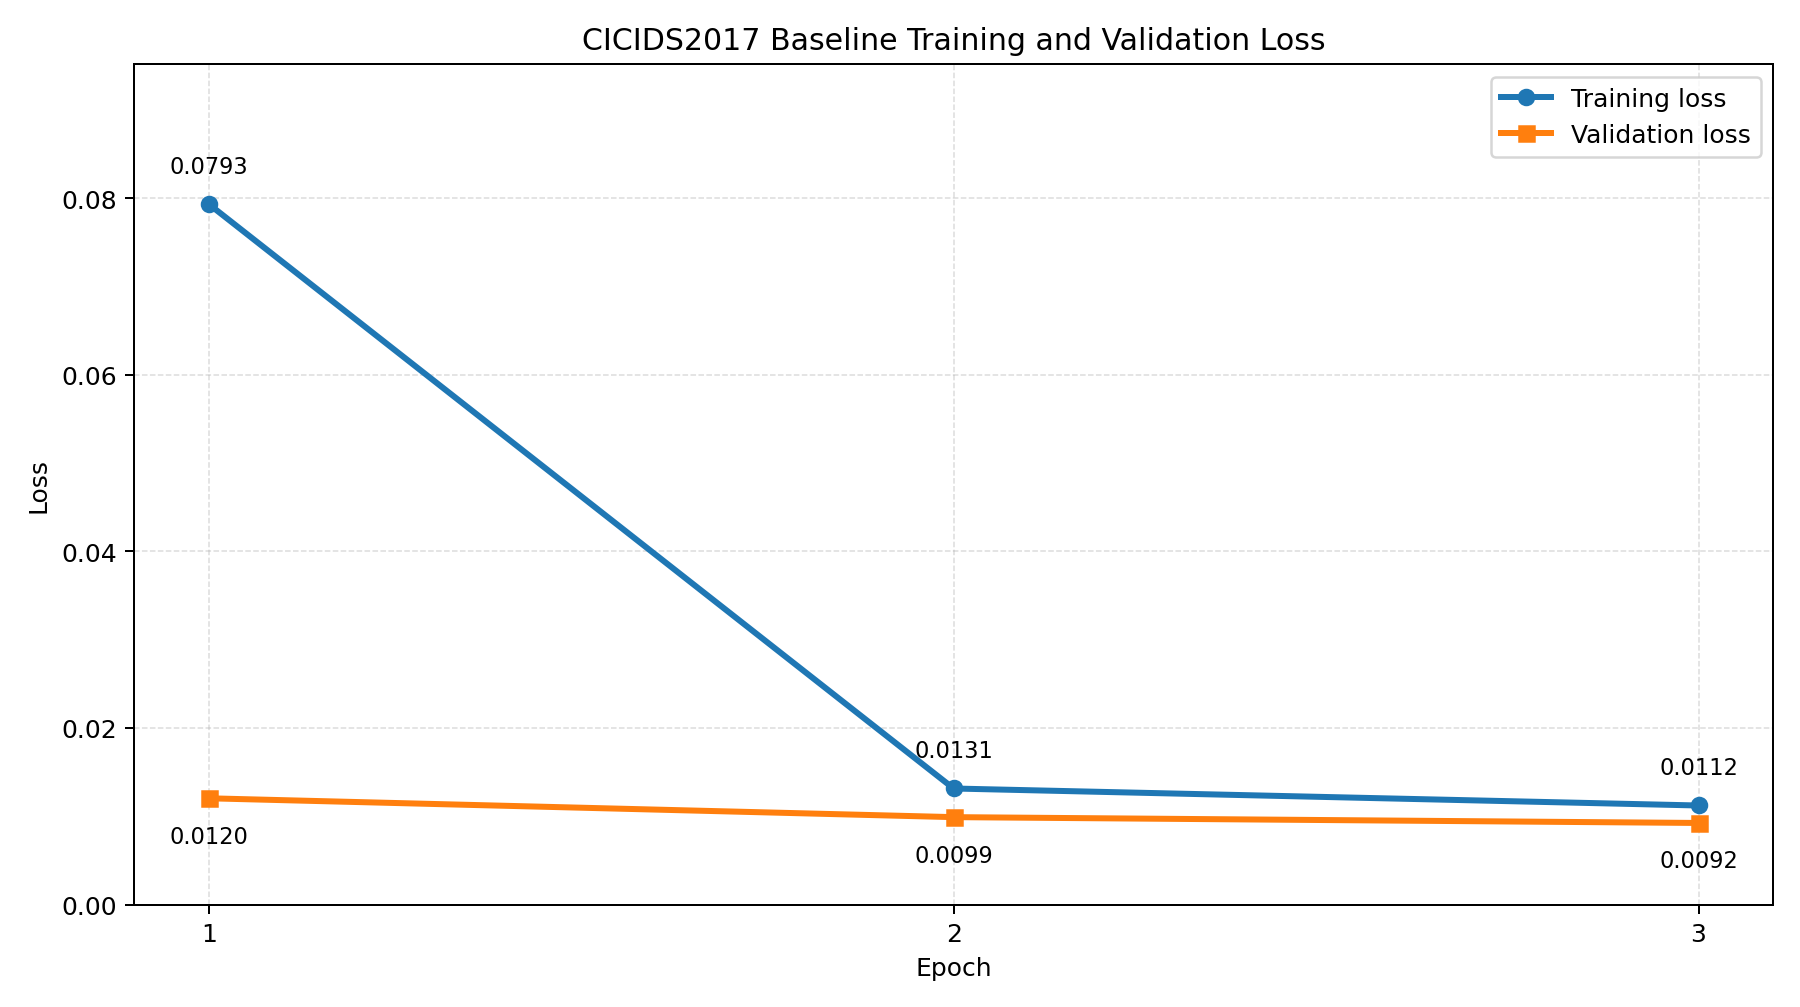
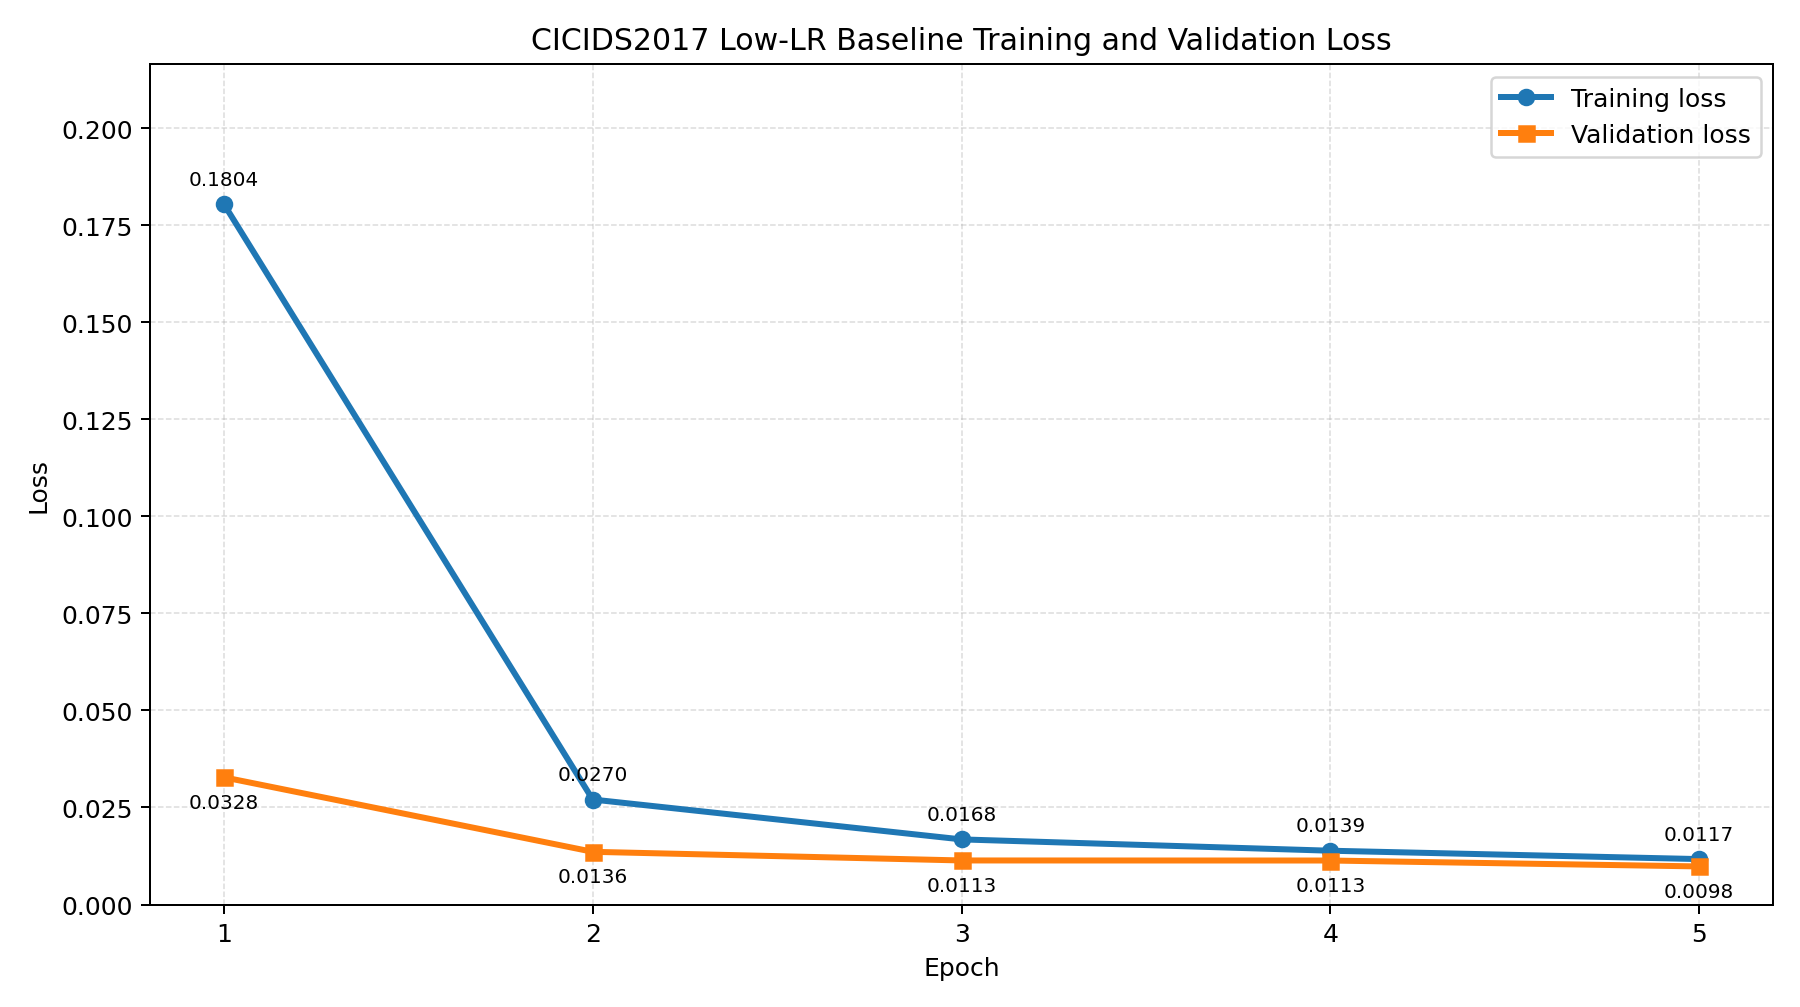
docs: refresh figures from low lr run

diff --git a/docs/thesis_figures/README.md b/docs/thesis_figures/README.md
@@ -2,9 +2,9 @@
 
 | Figure | Section | Caption |
 | --- | --- | --- |
-| `fig_4_1_training_macro_f1_curve.png` | 4.1 | Validation macro-F1 convergence over three supervised epochs; epoch 2 is selected as the best checkpoint. |
-| `fig_4_1_training_loss_curve.png` | 4.1 | Epoch-level training and validation loss curves over three supervised epochs. |
-| `fig_4_1_training_step_loss_curve.png` | 4.1 | Step-level training loss curve with sampled raw losses, 200-step rolling mean, and cumulative average. |
+| `fig_4_1_training_macro_f1_curve.png` | 4.1 | Low-learning-rate validation macro-F1 convergence over five supervised epochs; epoch 5 is selected as the best checkpoint. |
+| `fig_4_1_training_loss_curve.png` | 4.1 | Low-learning-rate epoch-level training and validation loss curves over five supervised epochs. |
+| `fig_4_1_training_step_loss_curve.png` | 4.1 | Low-learning-rate step-level training loss curve with sampled raw losses, 200-step rolling mean, and cumulative average. |
 | `fig_4_2_confusion_matrix_log_heatmap.png` | 4.2.1 | Log-scaled confusion matrix on the CICIDS2017 test split, excluding low-support reported-only labels. |
 | `fig_4_2_per_class_f1_bar.png` | 4.2.1 | Per-class F1 scores with test support annotations, excluding low-support reported-only labels. |
 | `fig_4_3_loss_weighting_macro_f1_comparison.png` | 4.3.2 | Best validation macro-F1 under representative class-weighting strategies. |
